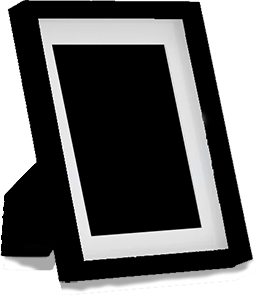
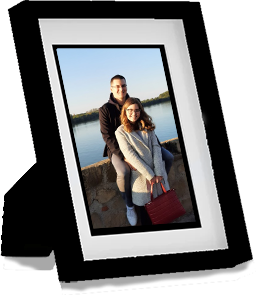
Frame and project Added a picture into the frame Added a new polaroid wiht a project link

Changed region(s): [[0.2188, 0.1525, 0.7812, 0.7932]]

diff --git a/index.html b/index.html
@@ -53,6 +53,14 @@
 				<div class="pinText photo transitionOpacity hide">Snowboarding</div>
 				<img class="pinPin" src="./images/pin_3.png" alt=""/>
 			</button>
+			<button id="pbButton" 
+			class="pinButton bn b--none bg-transparent" 
+			onclick="window.open('https://github.com/wesely1996/Platformer','_blank')">
+				<img class="polaroid" src="./images/polaroid.png" alt=""/>
+				<img class="pinPhoto photo transitionOpacity" src="./images/PrisonBreak.PNG" alt="Snowboarding"/>
+				<div class="pinText photo transitionOpacity hide">Prison Break</div>
+				<img class="pinPin" src="./images/pin_3.png" alt=""/>
+			</button>
 		</div>
 		<button id="projectsButton" class="b--none bg-transparent projectsButtonAnimation b bgimgTransition"
 		onclick="window.open('./pages/projects.html', '_self')">

diff --git a/styles/index_style.css b/styles/index_style.css
@@ -391,6 +391,12 @@ a{
 	transform: rotate(3deg);
 }
 
+#pbButton{
+	right: 10%;
+	top: 25%;
+	/* transform: rotate(7deg); */
+}
+
 .pinButton{
 	width: 5%;
 	height: 12%;
